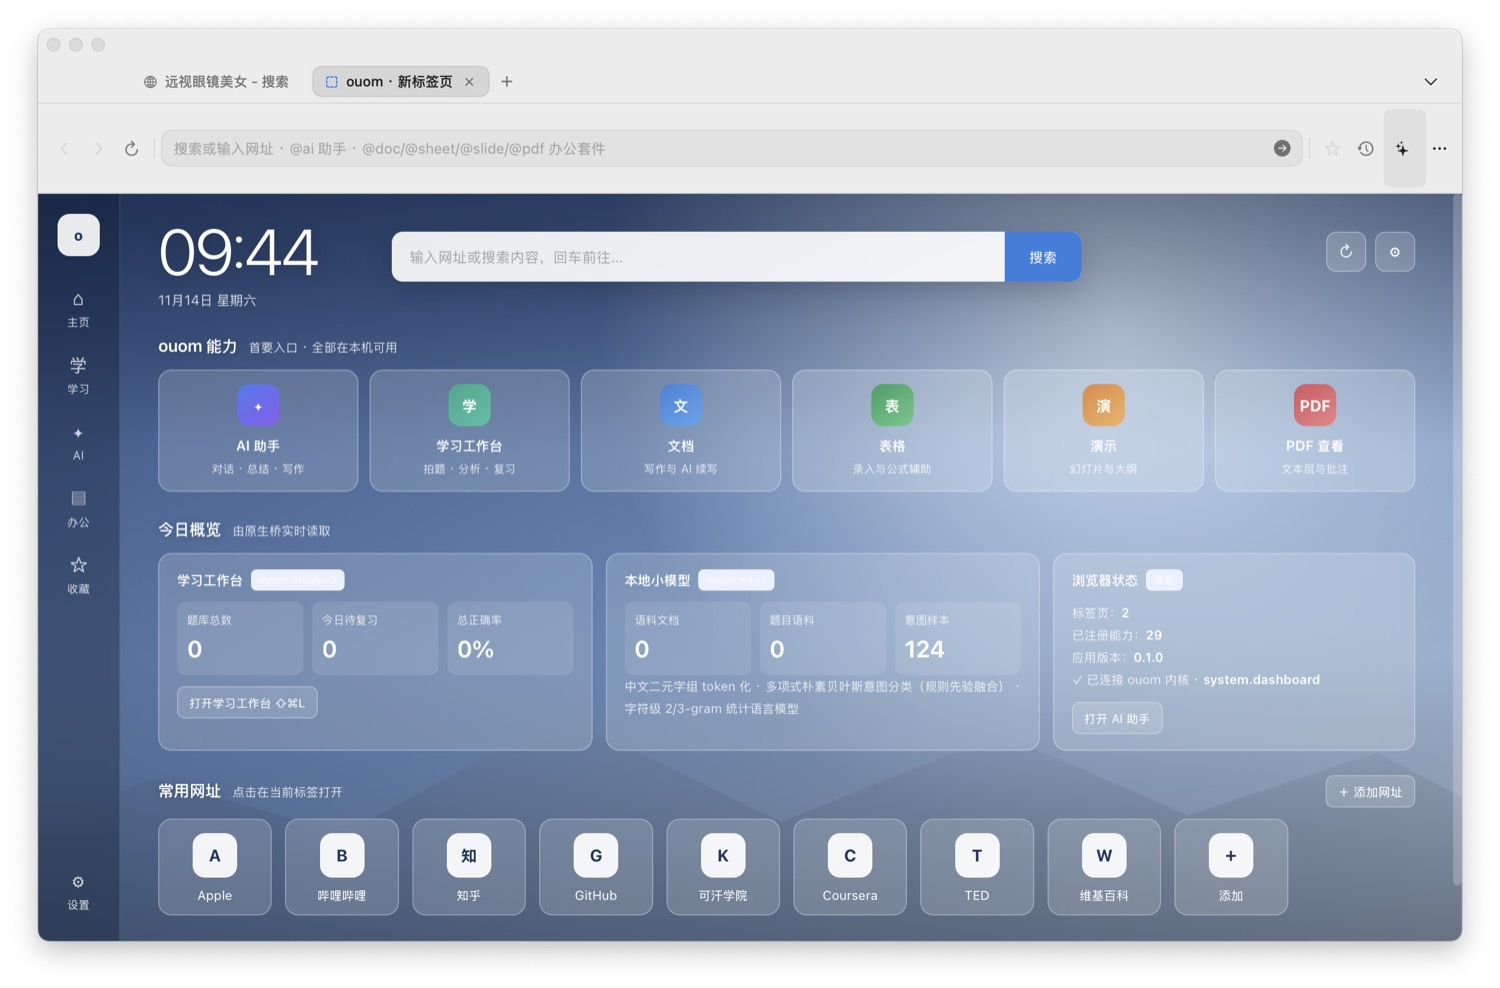
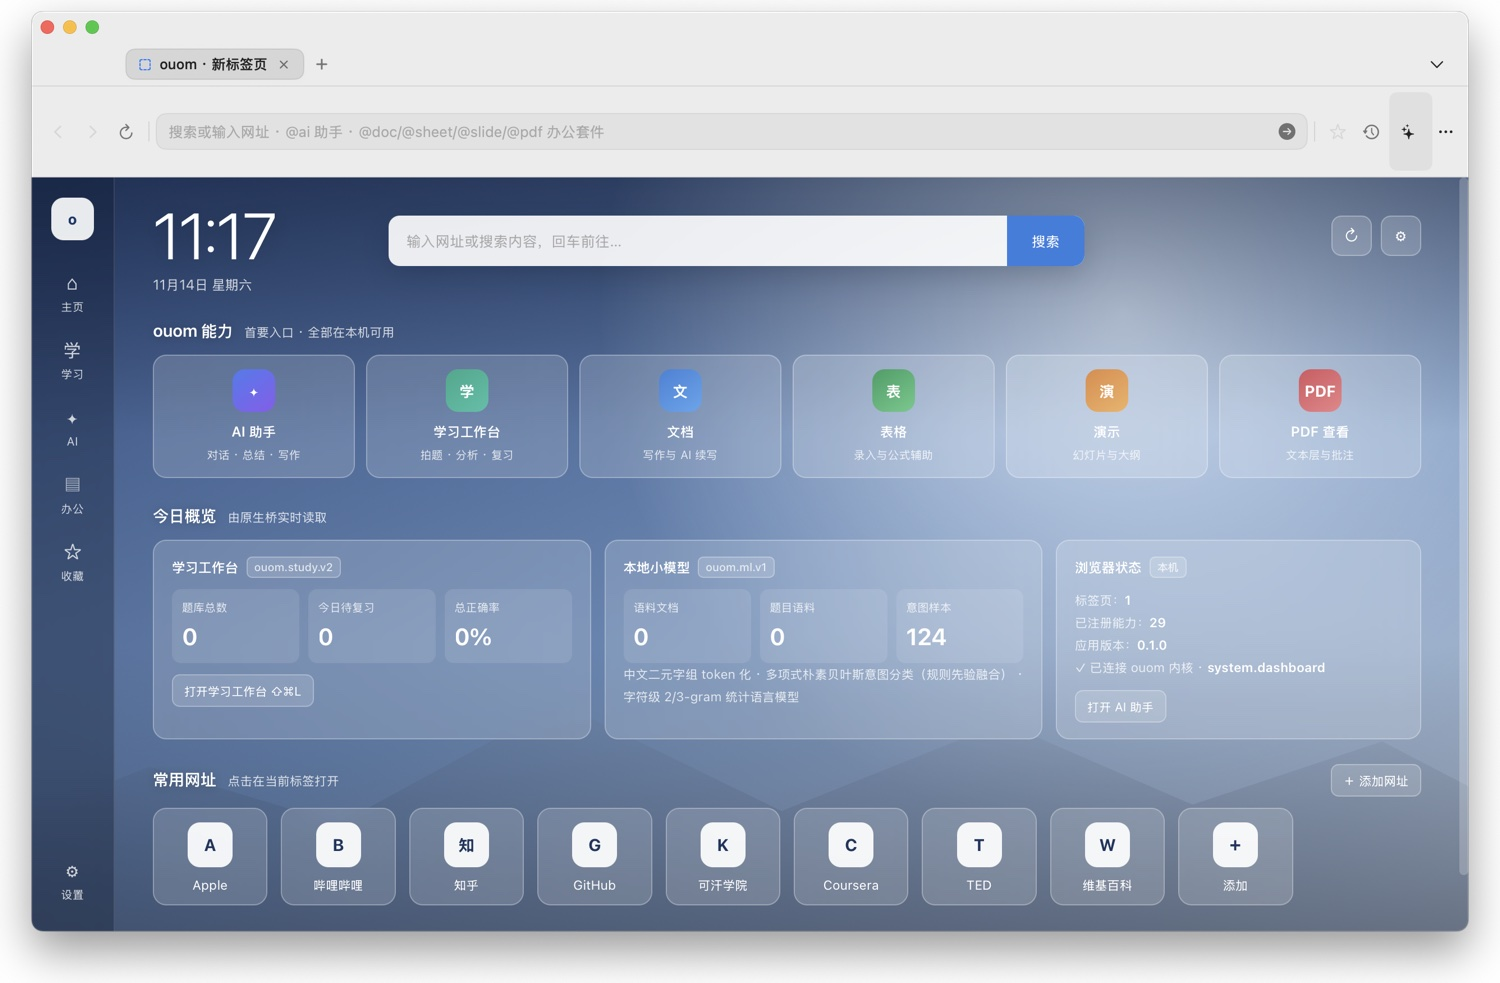
更新官网产品截图与支持板块

diff --git a/assets/style.css b/assets/style.css
@@ -19,7 +19,6 @@
 html { scroll-behavior: smooth; }
 body {
   margin: 0;
-  padding-bottom: 46px;
   background: var(--bg);
   color: var(--ink);
   font-family: -apple-system, BlinkMacSystemFont, "SF Pro Display", "SF Pro Text",
@@ -210,35 +209,38 @@ button { font: inherit; cursor: pointer; }
   background: #10141d; color: #d8e2f0; font-size: 12.5px; line-height: 1.9;
   overflow-x: auto; white-space: pre; }
 
-/* 爱发电：固定底部说明条 */
-.afd-bar { position: fixed; left: 0; right: 0; bottom: 0; z-index: 80; height: 46px;
-  display: flex; align-items: center; justify-content: center; gap: 10px;
-  background: linear-gradient(90deg, #f79235, #f26a21); color: #fff;
-  font-size: 12.5px; letter-spacing: .01em;
-  box-shadow: 0 -2px 18px rgba(234,106,9,.22); }
-.afd-bar a { font-weight: 600; text-decoration: underline; text-underline-offset: 3px; }
-.afd-bar .heart { font-size: 14px; }
-
-/* 爱发电：首次弹窗 */
-.afd-overlay { position: fixed; inset: 0; z-index: 100; display: none;
-  align-items: center; justify-content: center; padding: 24px;
-  background: rgba(20, 12, 4, .48); backdrop-filter: blur(6px); }
-.afd-overlay.show { display: flex; }
-.afd-card { position: relative; width: min(420px, 100%); background: #fff;
-  border-radius: 22px; padding: 34px 30px 28px; text-align: center;
-  box-shadow: 0 28px 80px rgba(0,0,0,.28); border: 1px solid #ffe0bb; }
-.afd-card .close { position: absolute; top: 14px; right: 14px; width: 28px; height: 28px;
-  border: none; border-radius: 50%; background: #f5f5f7; color: #6e6e73; font-size: 16px; line-height: 1; }
-.afd-card .emblem { width: 58px; height: 58px; margin: 0 auto 18px; border-radius: 18px;
-  display: grid; place-items: center; color: #fff; font-size: 26px; font-weight: 700;
-  background: linear-gradient(145deg, #ffa53d, #ee6410); box-shadow: 0 10px 24px rgba(238,100,16,.28); }
-.afd-card h3 { margin: 0 0 10px; font-size: 21px; font-weight: 600; letter-spacing: -.02em; }
-.afd-card p { margin: 0 auto 22px; max-width: 320px; font-size: 13.5px; line-height: 1.75; color: var(--ink-2); }
-.afd-card .afd-primary { display: block; width: 100%; min-height: 44px; border: none;
-  border-radius: 999px; color: #fff; font-weight: 600; font-size: 14.5px;
-  background: linear-gradient(90deg, #f79235, #ee6410); }
-.afd-card .afd-later { display: block; margin: 14px auto 0; border: none; background: none;
-  color: var(--ink-3); font-size: 12.5px; }
+/* 支持 ouom：页脚前的双栏卡片，替代底部说明条与首次弹窗 */
+.support { padding: 4px 0 96px; background: var(--gray); }
+.support-card { display: grid; grid-template-columns: minmax(0, 1fr) 268px;
+  gap: 56px; align-items: center; padding: 46px 50px;
+  background: #fff; border: 1px solid var(--line); border-radius: 24px;
+  box-shadow: 0 16px 44px rgba(0,0,0,.06); }
+.support-copy .kicker { display: block; font-size: 12.5px; font-weight: 600;
+  letter-spacing: .1em; color: var(--blue); margin-bottom: 14px; }
+.support-copy h2 { margin: 0 0 14px; font-size: clamp(27px, 3.2vw, 38px);
+  line-height: 1.15; font-weight: 600; letter-spacing: -.035em; }
+.support-copy p { margin: 0 0 10px; max-width: 620px; color: var(--ink-2);
+  font-size: 14.5px; line-height: 1.8; }
+.support-copy p:last-child { margin-bottom: 0; }
+.support-action { display: flex; flex-direction: column; align-items: flex-start;
+  gap: 12px; padding-left: 44px; border-left: 1px solid var(--line); }
+.support-cta { display: inline-flex; align-items: center; gap: 8px; min-height: 42px;
+  padding: 0 20px; border-radius: 999px; background: var(--blue); color: #fff;
+  font-size: 14px; font-weight: 500;
+  transition: background .2s, transform .2s, box-shadow .2s; }
+.support-cta:hover { background: var(--blue-dark); transform: translateY(-1px);
+  box-shadow: 0 10px 24px rgba(0,113,227,.26); }
+.support-cta svg { width: 15px; height: 15px; }
+.support-action span { font-size: 12px; color: var(--ink-3); line-height: 1.6; }
+.support-alt { font-size: 12.5px; color: var(--ink-2); padding-bottom: 2px;
+  border-bottom: 1px solid var(--line); transition: color .2s, border-color .2s; }
+.support-alt:hover { color: var(--blue); border-color: var(--blue); }
+@media (max-width: 800px) {
+  .support { padding-bottom: 72px; }
+  .support-card { grid-template-columns: 1fr; gap: 28px; padding: 34px 28px; }
+  .support-action { padding-left: 0; padding-top: 24px;
+    border-left: 0; border-top: 1px solid var(--line); }
+}
 
 /* 入场动效 */
 .reveal { opacity: 0; transform: translateY(18px);
@@ -262,5 +264,4 @@ button { font: inherit; cursor: pointer; }
   .hero { padding-top: 76px; }
   .device { margin-top: 44px; }
   .spec th { width: 110px; }
-  .afd-bar { font-size: 11px; padding: 0 12px; text-align: center; }
 }

diff --git a/download/index.html b/download/index.html
@@ -6,7 +6,7 @@
 <title>下载 ouom — 适用于 macOS 的原生浏览器</title>
 <meta name="description" content="下载 ouom 0.1.0 for macOS。原生 Swift + WebKit 浏览器，内置 AI 助手、办公套件与学习工作台，数据仅存本机。">
 <link rel="icon" href="../assets/icon.png">
-<link rel="stylesheet" href="../assets/style.css">
+<link rel="stylesheet" href="../assets/style.css?v=2">
 </head>
 <body>
 
@@ -130,37 +130,40 @@ shasum -a 256 ouom-0.1.0.zip
 
 </main>
 
+<section class="support" id="support">
+  <div class="wrap">
+    <div class="support-card reveal">
+      <div class="support-copy">
+        <span class="kicker">支持 ouom</span>
+        <h2>永久免费，也没有收费计划。</h2>
+        <p>ouom 不设账号、不含广告与内购，也不会上传浏览记录、学习资料或文档。所有数据只保存在这台 Mac 上。</p>
+        <p>开发与维护由作者独立完成。如果 ouom 让你的工作与学习更顺手，欢迎通过爱发电支持它继续完善。赞助与否，都不影响任何功能。</p>
+      </div>
+      <div class="support-action">
+        <a class="support-cta" href="https://afdian.com/a/apple-pc" target="_blank" rel="noopener">
+          前往爱发电
+          <svg viewBox="0 0 24 24" fill="none" stroke="currentColor" stroke-width="1.8" stroke-linecap="round" stroke-linejoin="round"><path d="M7 17 17 7M9 7h8v8"/></svg>
+        </a>
+        <span>¥33.88 / 月起，可随时取消</span>
+        <a class="support-alt" href="https://github.com/apple-PC/ouom">在 GitHub 加星标或提交 Issue</a>
+      </div>
+    </div>
+  </div>
+</section>
+
 <footer class="footer">
   <div class="footer-inner">
     <div class="footer-links">
       <a href="../index.html">产品介绍</a>
       <a href="./">下载</a>
       <a href="https://github.com/apple-PC/ouom">GitHub</a>
-      <a href="https://afdian.com/a/apple-pc">爱发电</a>
+      <a href="../index.html#support">支持</a>
     </div>
     <div>ouom · observable universe on mac · 0.1.0</div>
     <div>由 apple-pc（天天向上）制作 · 采用 MIT 许可发布</div>
   </div>
 </footer>
 
-<!-- 爱发电 · 固定底部说明条 -->
-<div class="afd-bar">
-  <span class="heart">♥</span>
-  <span>喜欢 ouom？可在 <a href="https://afdian.com/a/apple-pc" target="_blank" rel="noopener">爱发电</a> 支持作者，帮助我们持续完善。</span>
-</div>
-
-<!-- 爱发电 · 首次访问可关闭弹窗 -->
-<div class="afd-overlay" id="afdOverlay" role="dialog" aria-modal="true" aria-label="支持 ouom">
-  <div class="afd-card">
-    <button class="close" type="button" aria-label="关闭" data-afd-dismiss>×</button>
-    <div class="emblem">♥</div>
-    <h3>支持 ouom 的持续开发</h3>
-    <p>ouom 是独立开发的免费项目。如果它让你的工作与学习更顺手，欢迎通过爱发电给予支持。</p>
-    <a class="afd-primary" href="https://afdian.com/a/apple-pc" target="_blank" rel="noopener" data-afd-dismiss style="line-height:44px">前往爱发电</a>
-    <button class="afd-later" type="button" data-afd-dismiss>暂不，先看看</button>
-  </div>
-</div>
-
-<script src="../assets/site.js?v=2"></script>
+<script src="../assets/site.js?v=3"></script>
 </body>
 </html>

diff --git a/index.html b/index.html
@@ -9,7 +9,7 @@
 <meta property="og:description" content="原生 macOS 浏览器。AI 助手、办公套件、学习工作台，全部数据留在本机。">
 <meta property="og:type" content="website">
 <link rel="icon" href="assets/icon.png">
-<link rel="stylesheet" href="assets/style.css">
+<link rel="stylesheet" href="assets/style.css?v=2">
 </head>
 <body>
 
@@ -188,37 +188,40 @@
   </div>
 </section>
 
+<section class="support" id="support">
+  <div class="wrap">
+    <div class="support-card reveal">
+      <div class="support-copy">
+        <span class="kicker">支持 ouom</span>
+        <h2>永久免费，也没有收费计划。</h2>
+        <p>ouom 不设账号、不含广告与内购，也不会上传浏览记录、学习资料或文档。所有数据只保存在这台 Mac 上。</p>
+        <p>开发与维护由作者独立完成。如果 ouom 让你的工作与学习更顺手，欢迎通过爱发电支持它继续完善。赞助与否，都不影响任何功能。</p>
+      </div>
+      <div class="support-action">
+        <a class="support-cta" href="https://afdian.com/a/apple-pc" target="_blank" rel="noopener">
+          前往爱发电
+          <svg viewBox="0 0 24 24" fill="none" stroke="currentColor" stroke-width="1.8" stroke-linecap="round" stroke-linejoin="round"><path d="M7 17 17 7M9 7h8v8"/></svg>
+        </a>
+        <span>¥33.88 / 月起，可随时取消</span>
+        <a class="support-alt" href="https://github.com/apple-PC/ouom">在 GitHub 加星标或提交 Issue</a>
+      </div>
+    </div>
+  </div>
+</section>
+
 <footer class="footer">
   <div class="footer-inner">
     <div class="footer-links">
       <a href="index.html">产品介绍</a>
       <a href="download/">下载</a>
       <a href="https://github.com/apple-PC/ouom">GitHub</a>
-      <a href="https://afdian.com/a/apple-pc">爱发电</a>
+      <a href="#support">支持</a>
     </div>
     <div>ouom · observable universe on mac · 0.1.0</div>
     <div>由 apple-pc（天天向上）制作 · 采用 MIT 许可发布</div>
   </div>
 </footer>
 
-<!-- 爱发电 · 固定底部说明条 -->
-<div class="afd-bar">
-  <span class="heart">♥</span>
-  <span>喜欢 ouom？可在 <a href="https://afdian.com/a/apple-pc" target="_blank" rel="noopener">爱发电</a> 支持作者，帮助我们持续完善。</span>
-</div>
-
-<!-- 爱发电 · 首次访问可关闭弹窗 -->
-<div class="afd-overlay" id="afdOverlay" role="dialog" aria-modal="true" aria-label="支持 ouom">
-  <div class="afd-card">
-    <button class="close" type="button" aria-label="关闭" data-afd-dismiss>×</button>
-    <div class="emblem">♥</div>
-    <h3>支持 ouom 的持续开发</h3>
-    <p>ouom 是独立开发的免费项目。如果它让你的工作与学习更顺手，欢迎通过爱发电给予支持。</p>
-    <a class="afd-primary" href="https://afdian.com/a/apple-pc" target="_blank" rel="noopener" data-afd-dismiss style="line-height:44px">前往爱发电</a>
-    <button class="afd-later" type="button" data-afd-dismiss>暂不，先看看</button>
-  </div>
-</div>
-
-<script src="assets/site.js?v=2"></script>
+<script src="assets/site.js?v=3"></script>
 </body>
 </html>

diff --git a/assets/site.js b/assets/site.js
@@ -1,4 +1,4 @@
-/* ouom 官网 · 轻量交互：入场动效与爱发电首次提示 */
+/* ouom 官网 · 轻量交互：滚动入场 */
 (function () {
   'use strict';
 
@@ -18,31 +18,4 @@
     items.forEach(function (el) { el.classList.add('visible'); });
   }
 
-  // 爱发电：首次访问弹窗，关闭后写入 localStorage，后续不再打扰
-  var KEY = 'ouom_afdian_dismissed';
-  var overlay = document.getElementById('afdOverlay');
-  if (!overlay) return;
-
-  function dismiss() {
-    try { window.localStorage.setItem(KEY, '1'); } catch (e) { /* 隐私模式下忽略 */ }
-    overlay.classList.remove('show');
-  }
-
-  var shown = false;
-  try { shown = window.localStorage.getItem(KEY) === '1'; } catch (e) { shown = false; }
-  // 分享链接可加 ?afd=off 跳过提示，便于嵌入预览或截图；不写入记忆状态。
-  var skip = /[?&]afd=off(?:&|$)/.test(window.location.search);
-  if (!shown && !skip) {
-    window.setTimeout(function () { overlay.classList.add('show'); }, 1600);
-  }
-
-  overlay.addEventListener('click', function (e) {
-    if (e.target === overlay) dismiss();
-  });
-  document.querySelectorAll('[data-afd-dismiss]').forEach(function (el) {
-    el.addEventListener('click', dismiss);
-  });
-  document.addEventListener('keydown', function (e) {
-    if (e.key === 'Escape' && overlay.classList.contains('show')) dismiss();
-  });
 })();
